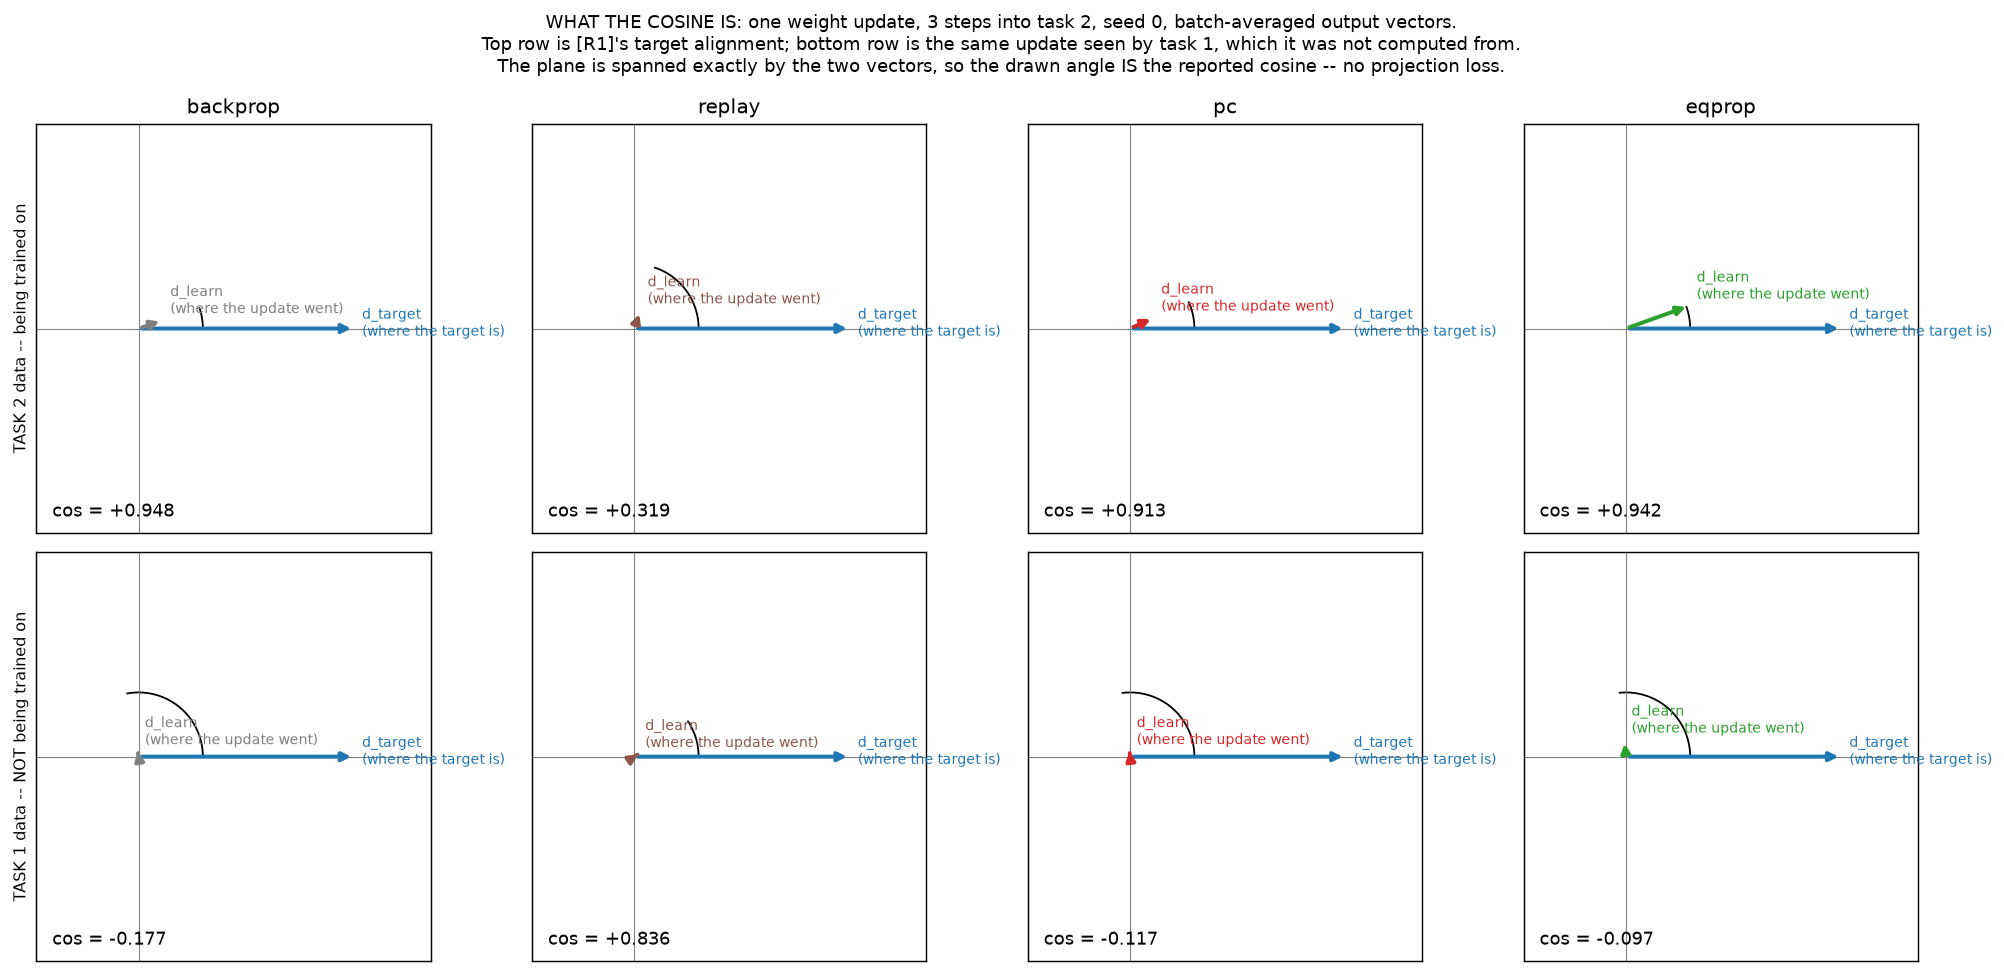
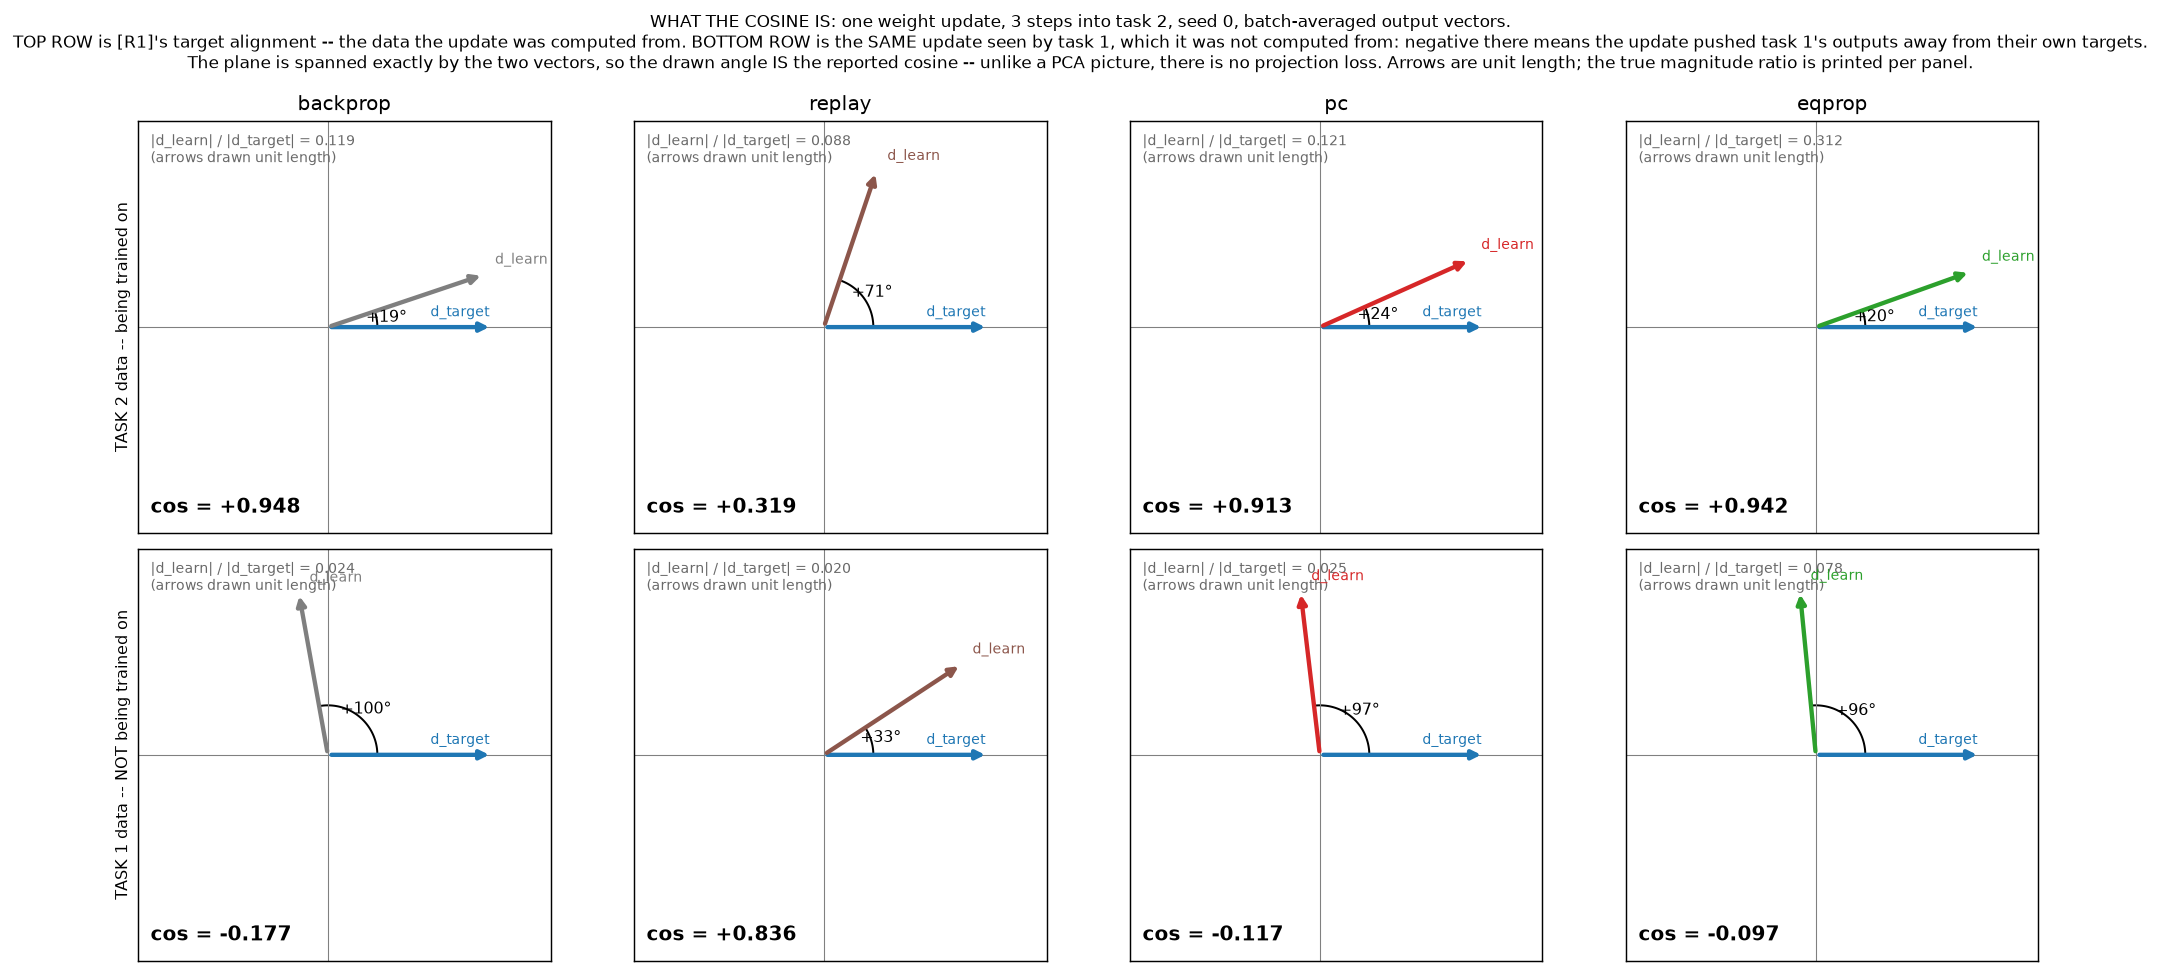
64 mechanism panel: annotations to bottom-left, clear of d_learn
d_learn swings into the upper half whenever the cosine is positive, and in the
interference row it landed on the top-left caption. Both annotations now sit
bottom-left where nothing is drawn.

diff --git a/experiments/64_target_alignment_and_interference.py b/experiments/64_target_alignment_and_interference.py
@@ -304,11 +304,13 @@ for col, m in enumerate(METHODS):
         ax.annotate(f"{np.degrees(ang):+.0f}°", xy=(0.36 * np.cos(ang / 2),
                                                          0.36 * np.sin(ang / 2)),
                     fontsize=9, ha="center", va="center")
-        ax.annotate(f"cos = {c:+.3f}", xy=(0.03, 0.05), xycoords="axes fraction",
+        # both annotations at the BOTTOM LEFT: d_learn swings into the upper half whenever the
+        # cosine is positive, and in the interference row it lands exactly on a top-left caption
+        ax.annotate(f"cos = {c:+.3f}", xy=(0.03, 0.11), xycoords="axes fraction",
                     fontsize=11, weight="bold")
-        ax.annotate(f"|d_learn| / |d_target| = {nl / (nt + 1e-12):.3f}\n"
-                    f"(arrows drawn unit length)",
-                    xy=(0.03, 0.90), xycoords="axes fraction", fontsize=7.5, color="dimgray")
+        ax.annotate(f"|d_learn| / |d_target| = {nl / (nt + 1e-12):.3f}   "
+                    f"(arrows unit length)",
+                    xy=(0.03, 0.04), xycoords="axes fraction", fontsize=7.5, color="dimgray")
         ax.annotate("d_target", xy=(tx, ty), xytext=(-2, 6), textcoords="offset points",
                     fontsize=8, color="tab:blue", ha="right")
         ax.annotate("d_learn", xy=(lx, ly), xytext=(6, 6 if ly >= 0 else -12),
